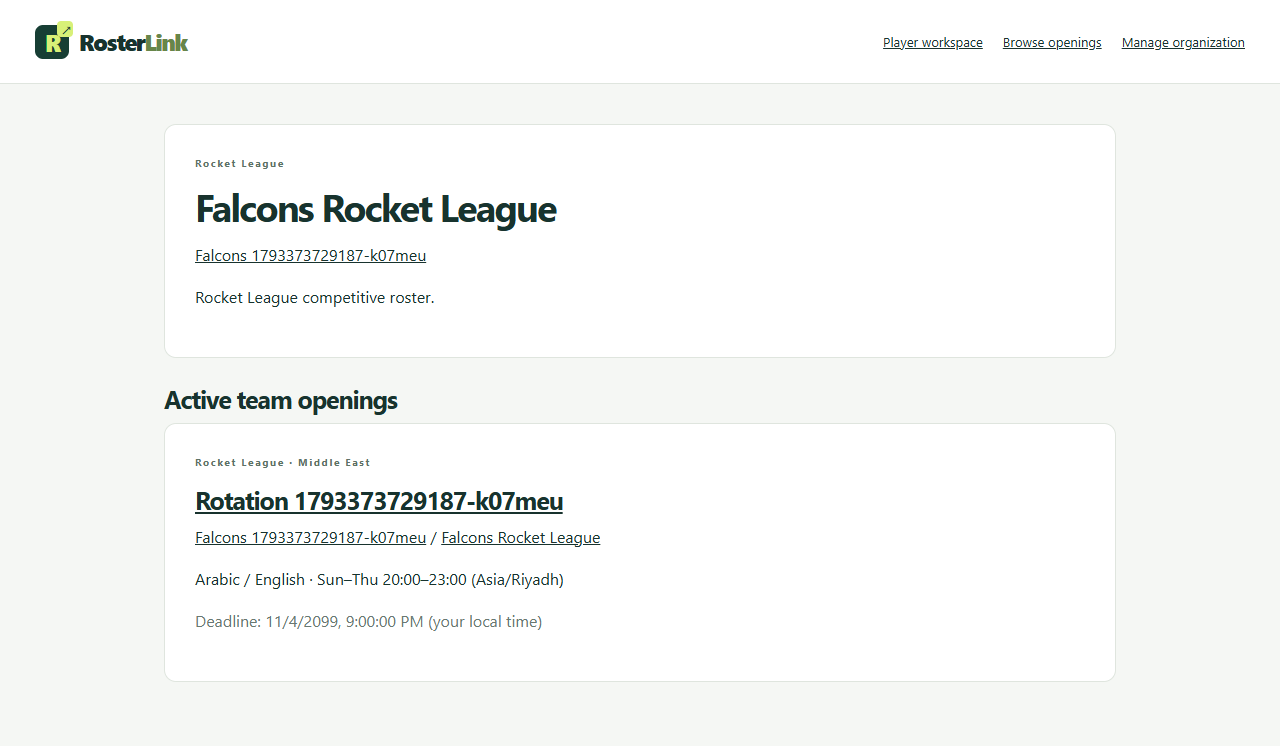
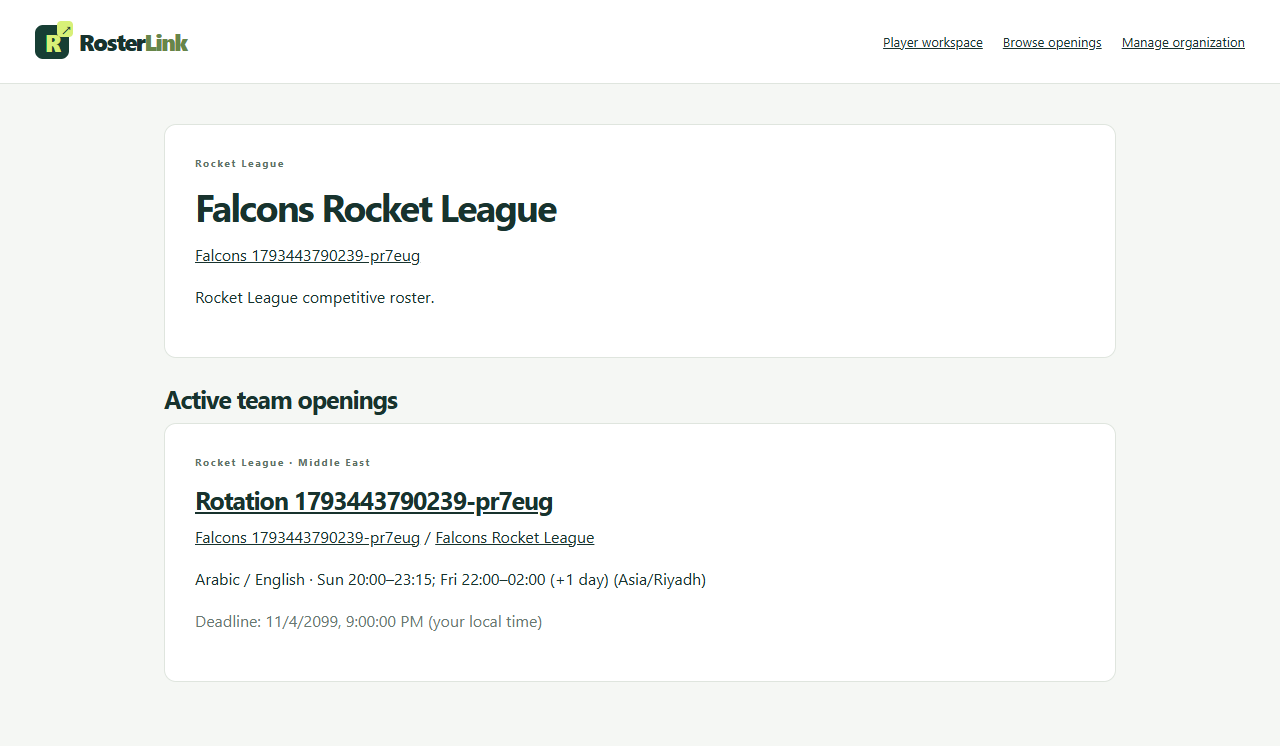
feat(SF-20): choose weekly availability from a day and time table

Changed region(s): [[0.2188, 0.6475, 0.4688, 0.7399], [0.2812, 0.7708, 0.5625, 0.8016], [0.2188, 0.3391, 0.3438, 0.37]]

diff --git a/client/Recruitment.jsx b/client/Recruitment.jsx
@@ -3,10 +3,11 @@ import { api } from './api.js';
 import { Brand, Field, Loading, Notice, Submit } from './components.jsx';
 import { useToast } from './Toasts.jsx';
 import { platforms } from '../shared/game-form.js';
+import SchedulePicker from './SchedulePicker.jsx';
 
 const orgFields = [['name', 'Organization name', 100], ['description', 'About the organization', 2000, 'textarea'], ['region', 'Organization region', 100], ['website', 'Website (optional)', 500, 'url']];
 const teamFields = [['name', 'Team name', 100], ['description', 'About the team', 2000, 'textarea']];
-const openingFields = [['role', 'Role', 100], ['requirements', 'Game-specific requirements', 2000, 'textarea'], ['rank', 'Minimum rank / context (optional)', 100], ['region', 'Region', 100], ['language', 'Language', 100], ['schedule', 'Schedule', 300], ['timezone', 'Schedule timezone', 100], ['deadline', 'Deadline', null, 'datetime-local']];
+const openingFields = [['role', 'Role', 100], ['requirements', 'Game-specific requirements', 2000, 'textarea'], ['rank', 'Minimum rank / context (optional)', 100], ['region', 'Region', 100], ['language', 'Language', 100], ['timezone', 'Schedule timezone', 100], ['deadline', 'Deadline', null, 'datetime-local']];
 const deadlineLocal = value => { if (!value) return ''; const date = new Date(value); return new Date(date.getTime() - date.getTimezoneOffset() * 60000).toISOString().slice(0, 16); };
 
 function useResource(path) {
@@ -31,17 +32,19 @@ function Editor({ title, fields, initial = {}, extra, path, method = 'POST', onS
   const notify = useToast();
   const [values, setValues] = useState(() => ({ ...Object.fromEntries(fields.map(([key]) => [key, ''])), ...initial, ...(opening ? { deadline: deadlineLocal(initial.deadline), timezone: initial.timezone || Intl.DateTimeFormat().resolvedOptions().timeZone, platform: initial.platform || '' } : {}) }));
   const [busy, setBusy] = useState(false), [error, setError] = useState(null);
+  const [scheduleSlots, setScheduleSlots] = useState(initial.scheduleSlots || []);
   const change = (key, value) => setValues(previous => ({ ...previous, [key]: value }));
   async function submit(event) {
     event.preventDefault(); setBusy(true); setError(null);
     try {
-      const body = { ...values, ...extra };
-      if (opening) body.deadline = new Date(values.deadline).toISOString();
+      const { schedule: legacySchedule, scheduleSlots: previousSlots, ...body } = { ...values, ...extra };
+      if (opening) { body.deadline = new Date(values.deadline).toISOString(); body.scheduleSlots = scheduleSlots; }
       const result = await api(path, { method, body }); notify(`${title} saved.`); onSaved(result);
     } catch (error) { setError(error); } finally { setBusy(false); }
   }
   return <form className="card form-card" onSubmit={submit}><h3>{title}</h3>{children}<Notice error={error} /><fieldset disabled={busy} className="recruitment-fieldset">
     {opening && <Field label="Platform" as="select" value={values.platform} onChange={event => change('platform', event.target.value)} error={error?.fields?.platform} required><option value="">Choose platform</option>{platforms.map(platform => <option key={platform}>{platform}</option>)}</Field>}
+    {opening && <SchedulePicker value={scheduleSlots} onChange={setScheduleSlots} errors={error?.fields} legacy={initial.schedule} />}
     <div className="form-grid">{fields.map(([key, label, maxLength, type]) => <Field key={key} label={label} as={type === 'textarea' ? 'textarea' : 'input'} type={type === 'textarea' ? undefined : type || 'text'} maxLength={maxLength || undefined} dir={type === 'datetime-local' ? undefined : 'auto'} value={values[key] ?? ''} required={!['website', 'rank'].includes(key)} onChange={event => change(key, event.target.value)} error={error?.fields?.[key]} help={key === 'deadline' ? 'Enter your local date and time. Saved as an exact UTC instant.' : key === 'schedule' ? 'Include days and times; the timezone below applies.' : key === 'timezone' ? 'IANA timezone, e.g. Asia/Riyadh.' : undefined} />)}</div>
     <Submit busy={busy}>{button}</Submit></fieldset></form>;
 }
@@ -100,7 +103,7 @@ function OpeningManager({ team, openings, reload }) {
     catch (error) { setError(error); } finally { setBusy(false); }
   }
   return <><div className="section-heading"><h3>Openings · {team.name}</h3><button className="button secondary" onClick={() => setEditing({})}>New opening</button></div><Notice error={error} />
-    {editing && <><Editor key={editing.id || 'new'} title={editing.id ? 'Edit opening' : 'Publish opening'} fields={openingFields} initial={Object.fromEntries(openingFields.map(([key]) => [key, editing[key] || '']).concat([['platform', editing.platform || '']]))} opening path={editing.id ? `/openings/${editing.id}` : `/teams/${team.id}/openings`} method={editing.id ? 'PUT' : 'POST'} button={editing.id ? 'Save opening' : 'Publish opening'} onSaved={() => { setEditing(null); reload(); }}><p>Team: {team.name} · Game: {team.gameName} (derived from team)</p></Editor><button className="text-button" onClick={() => setEditing(null)}>Cancel opening edit</button></>}
+    {editing && <><Editor key={editing.id || 'new'} title={editing.id ? 'Edit opening' : 'Publish opening'} fields={openingFields} initial={{ ...Object.fromEntries(openingFields.map(([key]) => [key, editing[key] || '']).concat([['platform', editing.platform || '']])), schedule: editing.schedule, scheduleSlots: editing.scheduleSlots }} opening path={editing.id ? `/openings/${editing.id}` : `/teams/${team.id}/openings`} method={editing.id ? 'PUT' : 'POST'} button={editing.id ? 'Save opening' : 'Publish opening'} onSaved={() => { setEditing(null); reload(); }}><p>Team: {team.name} · Game: {team.gameName} (derived from team)</p></Editor><button className="text-button" onClick={() => setEditing(null)}>Cancel opening edit</button></>}
     {openings.length ? openings.map(opening => <article className="card form-card" key={opening.id}><h3>{opening.role}</h3><p>{opening.status === 'closed' ? 'Closed' : opening.expired ? 'Expired' : 'Active'} · {opening.language} · {opening.region}</p><a href={`/openings/${opening.id}`}>View opening</a>{opening.status !== 'closed' && <div className="heading-actions"><button className="button secondary" onClick={() => setEditing(opening)}>Edit opening</button><button className="button secondary danger" disabled={busy} onClick={() => close(opening)}>Close opening</button></div>}</article>) : <p>No openings yet.</p>}</>;
 }
 

diff --git a/tests/recruitment.test.js b/tests/recruitment.test.js
@@ -16,9 +16,9 @@ import { Organization, Team, Opening, recruitmentModels } from '../server/module
 const password = 'Sprint Two test passphrase!';
 const orgValues = { name: 'Falcons', description: 'Competitive esports organization — فريق', region: 'Saudi Arabia', website: 'https://example.com' };
 const teamValues = { name: 'Falcons Rocket League', description: 'Our first game team.' };
-const openingValues = { role: 'Rotation player', requirements: 'Rocket League: competitive 3v3 rotation and replay review.', platform: 'PC', rank: 'Champion or equivalent', region: 'Middle East', language: 'Arabic / English', schedule: 'Sun–Thu 20:00–23:00', timezone: 'Asia/Riyadh', deadline: '2099-11-04T23:59:00+03:00' };
+const openingValues = { role: 'Rotation player', requirements: 'Rocket League: competitive 3v3 rotation and replay review.', platform: 'PC', rank: 'Champion or equivalent', region: 'Middle East', language: 'Arabic / English', scheduleSlots: [{ day: 'sun', start: '20:00', end: '23:00' }], timezone: 'Asia/Riyadh', deadline: '2099-11-04T23:59:00+03:00' };
 const identifier = z.string().regex(/^[a-f\d]{24}$/);
-const openingDTO = z.object({ id: identifier, team: identifier, game: identifier, role: z.string(), requirements: z.string(), platform: z.string(), rank: z.string(), region: z.string(), language: z.string(), schedule: z.string(), timezone: z.string(), deadline: z.iso.datetime(), status: z.enum(['active', 'closed']), createdAt: z.iso.datetime(), updatedAt: z.iso.datetime(), closedAt: z.iso.datetime().optional() }).strict();
+const openingDTO = z.object({ id: identifier, team: identifier, game: identifier, role: z.string(), requirements: z.string(), platform: z.string(), rank: z.string(), region: z.string(), language: z.string(), schedule: z.string(), scheduleSlots: z.array(z.object({ day: z.string(), start: z.string(), end: z.string() }).strict()), timezone: z.string(), deadline: z.iso.datetime(), status: z.enum(['active', 'closed']), createdAt: z.iso.datetime(), updatedAt: z.iso.datetime(), closedAt: z.iso.datetime().optional() }).strict();
 let mongo, directory, app, config, owner, outsider, scoped, secondManager, visitor, game, otherGame, orgA, orgB, teamA, sibling, teamB;
 const write = (actor, method, path, values) => actor.agent[method](`/api${path}`).set('X-CSRF-Token', actor.token).send(values);
 const get = path => request(app).get(`/api${path}`);
@@ -135,6 +135,27 @@ test('SF-20 invalid requirements/deadlines and injected game/status/team cannot 
   for (const values of [{ role: ' ' }, { game: otherGame.id }, { deadline: '2020-01-01T00:00:00Z' }]) await write(owner, 'put', `/openings/${opening.id}`, { ...openingValues, ...values }).expect(400);
   await write(owner, 'post', `/openings/${opening.id}/close`, { status: 'active' }).expect(400);
   await get('/openings/bad').expect(404); await write(owner, 'put', `/openings/${new mongoose.Types.ObjectId()}`, openingValues).expect(404);
+});
+
+test('SF-20 structured schedules persist, reject invalid/overlapping slots, and preserve old text records', async () => {
+  const slots = [{ day: 'fri', start: '22:00', end: '02:00' }, { day: 'sun', start: '20:15', end: '23:45' }];
+  const opening = await createOpening(owner, teamA, { ...openingValues, scheduleSlots: slots });
+  assert.equal(opening.schedule, 'Sun 20:15–23:45; Fri 22:00–02:00 (+1 day)');
+  assert.deepEqual(opening.scheduleSlots, [slots[1], slots[0]]);
+  assert.deepEqual((await get(`/openings/${opening.id}`)).body.opening.scheduleSlots, opening.scheduleSlots);
+  const invalid = [[], null, 'Sun 8pm', [{ day: 'noday', start: '20:00', end: '23:00' }], [{ day: 'sun', start: '25:00', end: '23:00' }], [{ day: 'sun', start: '20:01', end: '23:00' }], [{ day: 'sun', start: '20:00', end: '20:00' }], [slots[0], slots[0]], [{ ...slots[0], extra: 'bad' }], [{ day: 'sat', start: '23:00', end: '02:00' }, { day: 'sun', start: '01:00', end: '03:00' }]];
+  for (const scheduleSlots of invalid) {
+    await write(owner, 'post', `/teams/${teamA.id}/openings`, { ...openingValues, scheduleSlots }).expect(400);
+    await write(owner, 'put', `/openings/${opening.id}`, { ...openingValues, scheduleSlots }).expect(400);
+  }
+  const { scheduleSlots, ...withoutSchedule } = openingValues;
+  await write(owner, 'post', `/teams/${teamA.id}/openings`, withoutSchedule).expect(400);
+  await write(owner, 'post', `/teams/${teamA.id}/openings`, { ...withoutSchedule, schedule: 'Sunday whenever' }).expect(400);
+  const legacy = await Opening.create({ ...withoutSchedule, schedule: 'Old Friday evening text', team: teamA.id, game: game.id, createdBy: owner.id, updatedBy: owner.id });
+  assert.equal((await get(`/openings/${legacy.id}`)).body.opening.schedule, 'Old Friday evening text');
+  await write(owner, 'put', `/openings/${legacy.id}`, openingValues).expect(200);
+  const updated = (await get(`/openings/${legacy.id}`)).body.opening;
+  assert.equal(updated.schedule, 'Sun 20:00–23:00'); assert.deepEqual(updated.scheduleSlots, openingValues.scheduleSlots);
 });
 
 test('SF-21 active filtering combines literal game/role/region/language and excludes closed/expired', async () => {

diff --git a/tests/browser/recruitment.spec.js b/tests/browser/recruitment.spec.js
@@ -17,7 +17,12 @@ async function fillOrg(page, name) {
 }
 async function fillOpening(page, role) {
   await page.getByLabel('Platform', { exact: false }).selectOption('PC');
-  for (const [label, value] of [['Role', role], ['Game-specific requirements', 'Rocket League 3v3 rotation, replay reviews, and reliable communication.'], ['Minimum rank / context', 'Champion II or equivalent'], ['Region', 'Middle East'], ['Language', 'Arabic / English'], ['Schedule', 'Sun–Thu 20:00–23:00'], ['Schedule timezone', 'Asia/Riyadh'], ['Deadline', futureLocal]]) await page.getByLabel(label === 'Schedule' ? /^Schedule(?:\s*\*)?$/ : label).fill(value);
+  for (const [label, value] of [['Role', role], ['Game-specific requirements', 'Rocket League 3v3 rotation, replay reviews, and reliable communication.'], ['Minimum rank / context', 'Champion II or equivalent'], ['Region', 'Middle East'], ['Language', 'Arabic / English'], ['Schedule timezone', 'Asia/Riyadh'], ['Deadline', futureLocal]]) await page.getByLabel(label).fill(value);
+  await page.getByRole('checkbox', { name: 'Sunday', exact: true }).check();
+  await page.getByLabel('Sunday end time', { exact: true }).selectOption('23:15');
+  await page.getByRole('checkbox', { name: 'Friday', exact: true }).check();
+  await page.getByLabel('Friday start time', { exact: true }).selectOption('22:00');
+  await page.getByLabel('Friday end time', { exact: true }).selectOption('02:00');
 }
 async function shot(page, name, testInfo) {
   await mkdir('docs/evidence/sprint-2', { recursive: true });
@@ -70,10 +75,15 @@ test('SF-14–21 UI create/edit organization and teams, scoped roles, publish/fi
     await scopedPage.getByRole('button', { name: 'New opening', exact: true }).click(); await fillOpening(scopedPage, roleName);
     await shot(scopedPage, 'opening-creation', testInfo);
     await scopedPage.getByRole('button', { name: 'Publish opening', exact: true }).click(); await expect(scopedPage.getByRole('heading', { name: roleName, exact: true })).toBeVisible();
-    await scopedPage.getByRole('button', { name: 'Edit opening', exact: true }).click(); await scopedPage.getByLabel('Game-specific requirements').fill('Updated Rocket League 3v3 requirements.'); await scopedPage.getByRole('button', { name: 'Save opening' }).click();
+    await scopedPage.getByRole('button', { name: 'Edit opening', exact: true }).click();
+    await expect(scopedPage.getByLabel('Sunday end time', { exact: true })).toHaveValue('23:15');
+    await expect(scopedPage.getByLabel('Friday end time', { exact: true })).toHaveValue('02:00');
+    await scopedPage.getByLabel('Game-specific requirements').fill('Updated Rocket League 3v3 requirements.'); await scopedPage.getByRole('button', { name: 'Save opening' }).click();
     await scopedPage.reload(); await expect(scopedPage.getByRole('heading', { name: roleName, exact: true })).toBeVisible();
     const saved = (await (await scopedPage.request.get('/api/management')).json()).openings.find(item => item.role === roleName);
     expect(saved.requirements).toBe('Updated Rocket League 3v3 requirements.'); expect(saved.game).toBe(team.game);
+    expect(saved.scheduleSlots).toEqual([{ day: 'sun', start: '20:00', end: '23:15' }, { day: 'fri', start: '22:00', end: '02:00' }]);
+    expect(saved.schedule).toBe('Sun 20:00–23:15; Fri 22:00–02:00 (+1 day)');
     // Public pages have no management form, including in an unrelated manager's session.
     const publicPage = await otherContext.newPage(); await publicPage.goto(`/organizations/${org.id}`);
     await expect(publicPage.getByText('Edited organization — persisted after login.', { exact: true })).toBeVisible(); await expect(publicPage.locator('form')).toHaveCount(0); await shot(publicPage, 'organization', testInfo);

diff --git a/server/modules/recruitment/routes.js b/server/modules/recruitment/routes.js
@@ -6,6 +6,7 @@ import { User } from '../auth/model.js';
 import { Game } from '../games/model.js';
 import { HttpError, parse } from '../../lib/errors.js';
 import { platforms } from '../../../shared/game-form.js';
+import { scheduleDays, scheduleTimes, sortSchedule, formatSchedule, scheduleOverlaps } from '../../../shared/schedule.js';
 
 const id = z.string().regex(/^[a-f\d]{24}$/i, 'Invalid identifier.');
 const text = max => z.string().trim().min(1, 'This field is required.').max(max);
@@ -13,11 +14,15 @@ const orgValues = z.object({ name: text(100), description: text(2000), region: t
   website: z.union([z.literal(''), z.url().max(500).refine(value => /^https?:\/\//i.test(value), 'Use an HTTP or HTTPS URL.')]).default(''),
 }).strict();
 const teamValues = z.object({ name: text(100), description: text(2000), gameId: id }).strict();
+const scheduleSlots = z.array(z.object({ day: z.enum(scheduleDays.map(([day]) => day)), start: z.enum(scheduleTimes), end: z.enum(scheduleTimes) }).strict()).min(1, 'Select at least one playing day.').max(7)
+  .refine(slots => new Set(slots.map(slot => slot.day)).size === slots.length, 'Choose each day only once.')
+  .refine(slots => slots.every(slot => slot.start !== slot.end), 'Start and end times must be different.')
+  .refine(slots => !scheduleOverlaps(slots), 'Playing times cannot overlap across days.');
 const openingValues = z.object({ role: text(100), requirements: text(2000), platform: z.enum(platforms), rank: z.string().trim().max(100).default(''),
-  region: text(100), language: text(100), schedule: text(300),
+  region: text(100), language: text(100), scheduleSlots,
   timezone: text(100).refine(value => { try { new Intl.DateTimeFormat('en', { timeZone: value }); return true; } catch { return false; } }, 'Use a valid timezone, e.g. Asia/Riyadh.'),
   deadline: z.iso.datetime({ offset: true }).refine(value => new Date(value).getTime() > Date.now(), 'Choose a future deadline.'),
-}).strict();
+}).strict().transform(values => ({ ...values, scheduleSlots: sortSchedule(values.scheduleSlots), schedule: formatSchedule(values.scheduleSlots) }));
 const has = (list, user) => list.some(value => String(value) === String(user));
 const clean = doc => { const { _id, __v, managers, createdBy, updatedBy, closedBy, ...values } = doc.toObject ? doc.toObject() : doc; return { id: String(_id), ...values }; };
 const get = async (Model, value) => { if (!id.safeParse(value).success) throw new HttpError(404, 'Page not found.'); const doc = await Model.findById(value); if (!doc) throw new HttpError(404, 'Page not found.'); return doc; };

diff --git a/client/SchedulePicker.jsx b/client/SchedulePicker.jsx
@@ -1,0 +1,22 @@
+import { useId } from 'react';
+import { scheduleDays, scheduleTimes, sortSchedule } from '../shared/schedule.js';
+
+export default function SchedulePicker({ value, onChange, errors = {}, legacy }) {
+  const id = useId();
+  const update = (day, values) => onChange(sortSchedule(value.map(slot => slot.day === day ? { ...slot, ...values } : slot)));
+  return <fieldset className="schedule-picker" aria-describedby={`${id}-help${errors.scheduleSlots ? ` ${id}-error` : ''}`}>
+    <legend>Required playing availability *</legend>
+    <p className="field-help" id={`${id}-help`}>Select the days and times players must be available. Times use the schedule timezone. End times earlier than start times finish the next day.</p>
+    {legacy && !value.length && <p className="muted small">Previously saved: {legacy}. Choose days and times below to update this schedule.</p>}
+    <table className="schedule-table"><caption className="sr-only">Weekly playing schedule</caption><thead><tr><th scope="col">Day</th><th scope="col">From</th><th scope="col">To</th></tr></thead><tbody>
+      {scheduleDays.map(([day, label]) => {
+        const slot = value.find(item => item.day === day), index = value.findIndex(item => item.day === day);
+        return <tr key={day}><th scope="row"><label className="schedule-day"><input type="checkbox" checked={Boolean(slot)} onChange={event => onChange(event.target.checked ? sortSchedule([...value, { day, start: '20:00', end: '23:00' }]) : value.filter(item => item.day !== day))} />{label}</label></th>
+          {['start', 'end'].map(key => <td key={key}><select aria-label={`${label} ${key === 'start' ? 'start' : 'end'} time`} disabled={!slot} value={slot?.[key] || '20:00'} aria-invalid={Boolean(errors[`scheduleSlots.${index}.${key}`])} onChange={event => update(day, { [key]: event.target.value })}>{scheduleTimes.map(time => <option key={time}>{time}</option>)}</select>{errors[`scheduleSlots.${index}.${key}`] && <p className="field-error">{errors[`scheduleSlots.${index}.${key}`]}</p>}</td>)}
+        </tr>;
+      })}
+    </tbody></table>
+    {value.some(slot => slot.end < slot.start) && <p className="field-help">Overnight: {value.filter(slot => slot.end < slot.start).map(slot => scheduleDays.find(([day]) => day === slot.day)[1]).join(', ')} ends the following day.</p>}
+    {errors.scheduleSlots && <p className="field-error" id={`${id}-error`} role="alert">{errors.scheduleSlots}</p>}
+  </fieldset>;
+}

diff --git a/client/styles.css b/client/styles.css
@@ -6,6 +6,17 @@
 .recruitment-sidebar { margin-block-start: 24px; }
 .recruitment-sidebar a { padding: 10px; font-size: .82rem; }
 .recruitment-fieldset { border: 0; padding: 0; margin: 0; min-width: 0; }
+.schedule-picker { border: 1px solid var(--border); border-radius: 8px; padding: 14px; margin: 0 0 24px; min-width: 0; }
+.schedule-picker legend { font-size: .85rem; font-weight: 700; padding-inline: 6px; }
+.schedule-table { width: 100%; table-layout: fixed; border-collapse: collapse; margin-block-start: 12px; font-size: .8rem; }
+.schedule-table th { text-align: start; width: 30%; }
+.schedule-table th:first-child { width: 40%; }
+.schedule-table td, .schedule-table th { padding: 8px 3px; border-block-end: 1px solid var(--border); }
+.schedule-day { display: flex; align-items: center; gap: 6px; font-weight: 500; }
+.schedule-day input { margin: 0; accent-color: var(--green); }
+.schedule-table select { width: 100%; min-width: 0; min-height: 40px; border: 1px solid var(--border); border-radius: 6px; background: white; color: var(--green); padding: 6px 2px; }
+.schedule-table select:disabled { opacity: .4; }
+@media (max-width: 400px) { .schedule-picker { padding: 8px; } .schedule-table { font-size: .72rem; } .schedule-day { gap: 3px; } }
 .role-list { padding: 0; list-style: none; }
 .role-list li { display: flex; align-items: center; justify-content: space-between; gap: 12px; padding-block: 14px; border-block-end: 1px solid var(--border); }
 .role-list li > span { min-width: 0; overflow-wrap: anywhere; }

diff --git a/shared/schedule.js b/shared/schedule.js
@@ -1,0 +1,21 @@
+export const scheduleDays = [
+  ['sun', 'Sunday'], ['mon', 'Monday'], ['tue', 'Tuesday'], ['wed', 'Wednesday'],
+  ['thu', 'Thursday'], ['fri', 'Friday'], ['sat', 'Saturday'],
+];
+export const scheduleTimes = Array.from({ length: 96 }, (_, index) =>
+  `${String(Math.floor(index / 4)).padStart(2, '0')}:${String(index % 4 * 15).padStart(2, '0')}`);
+export function sortSchedule(slots) {
+  return [...slots].sort((a, b) => scheduleDays.findIndex(([day]) => day === a.day) - scheduleDays.findIndex(([day]) => day === b.day));
+}
+export function formatSchedule(slots) {
+  return sortSchedule(slots).map(slot => `${scheduleDays.find(([day]) => day === slot.day)[1].slice(0, 3)} ${slot.start}–${slot.end}${slot.end < slot.start ? ' (+1 day)' : ''}`).join('; ');
+}
+const minutes = time => Number(time.slice(0, 2)) * 60 + Number(time.slice(3));
+export function scheduleOverlaps(slots) {
+  const ranges = slots.map(slot => {
+    const start = scheduleDays.findIndex(([day]) => day === slot.day) * 1440 + minutes(slot.start);
+    return [start, start + (minutes(slot.end) - minutes(slot.start) + 1440) % 1440];
+  });
+  return ranges.some(([start, end], index) => ranges.some(([otherStart, otherEnd], other) =>
+    index !== other && [-10080, 0, 10080].some(shift => start < otherEnd + shift && otherStart + shift < end)));
+}

diff --git a/server/modules/recruitment/models.js b/server/modules/recruitment/models.js
@@ -1,4 +1,5 @@
 import mongoose from 'mongoose';
+import { scheduleDays, scheduleTimes } from '../../../shared/schedule.js';
 
 const ref = model => ({ type: mongoose.Schema.Types.ObjectId, ref: model, required: true });
 const text = max => ({ type: String, required: true, trim: true, maxlength: max });
@@ -21,6 +22,7 @@ export const Opening = mongoose.model('Opening', new mongoose.Schema({
   game: { ...ref('Game'), immutable: true },
   role: text(100), requirements: text(2000), platform: text(40), rank: { type: String, maxlength: 100, default: '' },
   region: text(100), language: text(100), schedule: text(300), timezone: text(100),
+  scheduleSlots: { type: [new mongoose.Schema({ day: { type: String, enum: scheduleDays.map(([day]) => day), required: true }, start: { type: String, enum: scheduleTimes, required: true }, end: { type: String, enum: scheduleTimes, required: true } }, { _id: false, strict: 'throw' })], default: undefined },
   deadline: { type: Date, required: true },
   status: { type: String, enum: ['active', 'closed'], default: 'active', required: true },
   createdBy: ref('User'), updatedBy: ref('User'), closedBy: { type: mongoose.Schema.Types.ObjectId, ref: 'User' }, closedAt: Date,

diff --git a/docs/data-model.md b/docs/data-model.md
@@ -6,13 +6,15 @@
 | --- | --- | --- |
 | Organization | Name, description, region, optional HTTP(S) website; nonempty User manager references. Creator added automatically. | `managers` |
 | Team | Immutable Organization and Game references; name/description; team-scoped User manager references. | `organization`, `managers` |
-| Opening | Immutable Team and server-derived Game; role, platform, game-specific requirements, optional rank, region, language, schedule/timezone, UTC deadline, active/closed status, creator/updater/closure actors and timestamps. | `(status,deadline,game)`, `team` |
+| Opening | Immutable Team and server-derived Game; role, platform, game-specific requirements, optional rank, region, language, structured weekly scheduleSlots, server-generated schedule summary/timezone, UTC deadline, active/closed status, creator/updater/closure actors and timestamps. | `(status,deadline,game)`, `team` |
 
 Managers are membership references scoped to their Organization or Team document, not separate accounts or global User flags. One user can have a player profile and roles in multiple organizations/teams. `$addToSet` makes grants idempotent; `$pull` revokes. Organization manager removal includes an atomic size guard so simultaneous requests cannot remove the last manager. Role lists require organization-wide permission; public DTOs omit membership and actor identities.
 
 All API writes validate with strict Zod schemas before Mongoose persistence. Parent references are resolved by backend permission checks. Teams must select an enabled game when created; team organization/game cannot later change through the API. Openings copy the selected team's game only on creation. UTC deadline comparison excludes expired openings immediately from active lists. Closed records are retained, never deleted; active expired records may receive a future deadline by authorized edit.
 
 These collections are additive: no rewrite of Sprint 1 users, profiles, games, images, sessions, reset tokens, or shared links. Startup initializes their indexes before accepting traffic. Tests use independent disposable WiredTiger databases and verify acknowledged data across an actual MongoDB stop/start.
+
+October 31 schedule refinement: `scheduleSlots` contains 1–7 `{day,start,end}` objects, one per selected day. Day IDs are `sun`–`sat`; times use 24-hour `HH:mm` at 15-minute intervals. API validation rejects duplicate days, equal start/end times and overlaps, including overnight/week-boundary overlaps. The API orders slots Sunday–Saturday and derives `schedule` consistently, adding `(+1 day)` for overnight blocks. Existing text-only records keep their original schedule; no bulk migration or guessed parsing is performed. New create/edit requests require structured slots and reject client-supplied free-text `schedule`. Authorized edits upgrade legacy records explicitly through the picker. Closing and public reads remain compatible with legacy records.
 
 ## Schema version 1
 

diff --git a/README.md b/README.md
@@ -73,7 +73,7 @@ Open http://127.0.0.1:3001. Production requires HTTPS, `NODE_ENV=production`, th
 
 Use **Manage organization** (`/manage`) with an existing signed-in account; a player profile is optional. Create an organization, add game-specific teams, then assign existing registered users by email to organization-wide or individual-team management scopes. Team managers cannot assign roles or manage sibling teams. At least one organization manager must remain.
 
-Publish an opening from its team with role, platform, game-specific requirement text, optional rank/context, region, language, schedule, IANA timezone and a future deadline. The game comes from the immutable team reference. Deadlines entered in browser-local time are stored as UTC instants; schedules keep their explicit timezone. Active expired openings may be edited with a new future deadline; manually closed openings remain preserved and cannot be edited or reopened.
+Publish an opening from its team with role, platform, game-specific requirement text, optional rank/context, region, language, IANA timezone and a future deadline. Choose required playing availability from a weekly day/time table, with one time block per selected day and 15-minute time choices. End times earlier than start times finish the next day; overlapping blocks are rejected. The API stores structured selections and generates a consistent schedule summary. Previously saved text schedules remain readable; editing them requires choosing structured days/times. The game comes from the immutable team reference. Deadlines entered in browser-local time are stored as UTC instants; schedules keep their explicit timezone. Active expired openings may be edited with a new future deadline; manually closed openings remain preserved and cannot be edited or reopened.
 
 Visit **Browse openings** (`/openings`) signed in or as a guest. Filters combine game and literal case-insensitive role/region/language text. Public organization (`/organizations/:id`), team (`/teams/:id`), and opening (`/openings/:id`) links work after refresh. Closed/expired details remain readable with their status; active lists exclude them.
 

diff --git a/docs/architecture.md b/docs/architecture.md
@@ -60,6 +60,8 @@ No premature models or empty future service layers were added. Liquipedia access
 
 ## Sprint 2 organizations and recruitment
 
+October 31 follow-up: opening forms now use a weekly day/time picker. Create/edit bodies require `scheduleSlots: [{day,start,end}]`; the server derives the display `schedule` string. The descriptive-schedule discussion below records the initial October 30 version and is superseded by this structured representation. One block per selected day, 15-minute choices, overnight sessions and an explicit IANA timezone are supported. Backend validation prevents duplicates, equal start/end times and overlapping blocks across days/week boundaries. Existing text-only records remain readable; the edit form displays their prior schedule and asks the manager to select structured days/times before saving. No old text is automatically interpreted or overwritten.
+
 `server/modules/recruitment/` owns organizations, teams, permissions and openings. `client/Recruitment.jsx` provides public pages/browsing and the management workspace, reusing API/session/CSRF, field/error/loading controls, toast feedback and existing styling. There is no second account system or global manager flag.
 
 | Method | Endpoint | Access and behavior |
